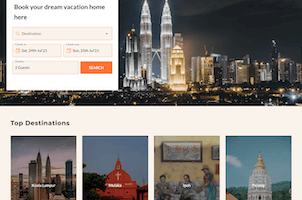
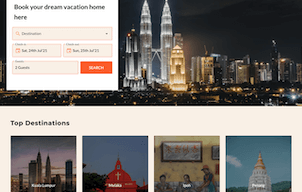
♻ refactor: improve for lighthouse

diff --git a/src/pages/home/_components/Projects/Template.tsx b/src/pages/home/_components/Projects/Template.tsx
@@ -13,18 +13,17 @@ const ProjectTemplate: React.FunctionComponent<Props> = (props) => {
     <li className="col-span-1 flex flex-col text-center bg-white rounded-lg shadow divide-y divide-gray-200">
       <div className="flex-1 flex flex-col">
         <div className="flex-shrink-0 w-full mx-auto">
-          <img
-            className="w-full h-48 object-cover bg-black"
-            src={props.imageUrl}
-            alt={props.projectName}
+          <div
+            style={{ backgroundImage: `url('${props.imageUrl}')` }}
+            className="w-full h-48 bg-cover"
           />
         </div>
         <h3 className="text-gray-900 text-sm font-bold px-4 pt-4">
           {props.projectName}
         </h3>
-        <dl className="mt-1 flex-grow flex flex-col justify-between px-4 pb-4">
+        <div className="mt-1 flex-grow flex flex-col justify-between px-4 pb-4">
           {props.children}
-          <dd className="mt-3 space-x-2 flex flex-wrap justify-center">
+          <div className="mt-3 space-x-2 flex flex-wrap justify-center">
             {props.stack.map((v) => (
               <span
                 key={v}
@@ -33,58 +32,92 @@ const ProjectTemplate: React.FunctionComponent<Props> = (props) => {
                 {v}
               </span>
             ))}
-          </dd>
-        </dl>
+          </div>
+        </div>
       </div>
       <div>
         <div className="-mt-px flex divide-x divide-gray-200">
           <div className="w-0 flex-1 flex">
-            <a
-              href={props.github}
-              target="_blank"
-              className={`${
-                props.github
-                  ? "cursor-pointer text-gray-700 hover:text-gray-500"
-                  : "cursor-not-allowed text-gray-300"
-              } relative -mr-px w-0 flex-1 inline-flex items-center justify-center py-2 text-sm font-medium border border-transparent rounded-bl-lg`}
-              rel="noreferrer"
-            >
-              <svg
-                className="h-6 w-6"
-                xmlns="http://www.w3.org/2000/svg"
-                width="24"
-                height="24"
-                viewBox="0 0 24 24"
-                fill="currentColor"
+            {props.github ? (
+              <a
+                href={props.github}
+                target="_blank"
+                className="cursor-pointer text-gray-700 hover:text-gray-500 relative -mr-px w-0 flex-1 inline-flex items-center justify-center py-2 text-sm font-medium border border-transparent rounded-bl-lg"
+                rel="noreferrer"
               >
-                <path d="M19 0h-14c-2.761 0-5 2.239-5 5v14c0 2.761 2.239 5 5 5h14c2.762 0 5-2.239 5-5v-14c0-2.761-2.238-5-5-5zm-4.466 19.59c-.405.078-.534-.171-.534-.384v-2.195c0-.747-.262-1.233-.55-1.481 1.782-.198 3.654-.875 3.654-3.947 0-.874-.312-1.588-.823-2.147.082-.202.356-1.016-.079-2.117 0 0-.671-.215-2.198.82-.64-.18-1.324-.267-2.004-.271-.68.003-1.364.091-2.003.269-1.528-1.035-2.2-.82-2.2-.82-.434 1.102-.16 1.915-.077 2.118-.512.56-.824 1.273-.824 2.147 0 3.064 1.867 3.751 3.645 3.954-.229.2-.436.552-.508 1.07-.457.204-1.614.557-2.328-.666 0 0-.423-.768-1.227-.825 0 0-.78-.01-.055.487 0 0 .525.246.889 1.17 0 0 .463 1.428 2.688.944v1.489c0 .211-.129.459-.528.385-3.18-1.057-5.472-4.056-5.472-7.59 0-4.419 3.582-8 8-8s8 3.581 8 8c0 3.533-2.289 6.531-5.466 7.59z" />
-              </svg>
-            </a>
+                <svg
+                  className="h-6 w-6 mr-2"
+                  xmlns="http://www.w3.org/2000/svg"
+                  width="24"
+                  height="24"
+                  viewBox="0 0 24 24"
+                  fill="currentColor"
+                >
+                  <path d="M19 0h-14c-2.761 0-5 2.239-5 5v14c0 2.761 2.239 5 5 5h14c2.762 0 5-2.239 5-5v-14c0-2.761-2.238-5-5-5zm-4.466 19.59c-.405.078-.534-.171-.534-.384v-2.195c0-.747-.262-1.233-.55-1.481 1.782-.198 3.654-.875 3.654-3.947 0-.874-.312-1.588-.823-2.147.082-.202.356-1.016-.079-2.117 0 0-.671-.215-2.198.82-.64-.18-1.324-.267-2.004-.271-.68.003-1.364.091-2.003.269-1.528-1.035-2.2-.82-2.2-.82-.434 1.102-.16 1.915-.077 2.118-.512.56-.824 1.273-.824 2.147 0 3.064 1.867 3.751 3.645 3.954-.229.2-.436.552-.508 1.07-.457.204-1.614.557-2.328-.666 0 0-.423-.768-1.227-.825 0 0-.78-.01-.055.487 0 0 .525.246.889 1.17 0 0 .463 1.428 2.688.944v1.489c0 .211-.129.459-.528.385-3.18-1.057-5.472-4.056-5.472-7.59 0-4.419 3.582-8 8-8s8 3.581 8 8c0 3.533-2.289 6.531-5.466 7.59z" />
+                </svg>
+                GitHub
+              </a>
+            ) : (
+              <div
+                aria-disabled="true"
+                className="cursor-not-allowed text-gray-300 relative -mr-px w-0 flex-1 inline-flex items-center justify-center py-2 text-sm font-medium border border-transparent rounded-bl-lg"
+              >
+                <svg
+                  className="h-6 w-6 mr-2"
+                  xmlns="http://www.w3.org/2000/svg"
+                  width="24"
+                  height="24"
+                  viewBox="0 0 24 24"
+                  fill="currentColor"
+                >
+                  <path d="M19 0h-14c-2.761 0-5 2.239-5 5v14c0 2.761 2.239 5 5 5h14c2.762 0 5-2.239 5-5v-14c0-2.761-2.238-5-5-5zm-4.466 19.59c-.405.078-.534-.171-.534-.384v-2.195c0-.747-.262-1.233-.55-1.481 1.782-.198 3.654-.875 3.654-3.947 0-.874-.312-1.588-.823-2.147.082-.202.356-1.016-.079-2.117 0 0-.671-.215-2.198.82-.64-.18-1.324-.267-2.004-.271-.68.003-1.364.091-2.003.269-1.528-1.035-2.2-.82-2.2-.82-.434 1.102-.16 1.915-.077 2.118-.512.56-.824 1.273-.824 2.147 0 3.064 1.867 3.751 3.645 3.954-.229.2-.436.552-.508 1.07-.457.204-1.614.557-2.328-.666 0 0-.423-.768-1.227-.825 0 0-.78-.01-.055.487 0 0 .525.246.889 1.17 0 0 .463 1.428 2.688.944v1.489c0 .211-.129.459-.528.385-3.18-1.057-5.472-4.056-5.472-7.59 0-4.419 3.582-8 8-8s8 3.581 8 8c0 3.533-2.289 6.531-5.466 7.59z" />
+                </svg>
+                GitHub
+              </div>
+            )}
           </div>
           <div className="-ml-px w-0 flex-1 flex">
-            <a
-              href={props.website}
-              target="_blank"
-              className={`${
-                props.website
-                  ? "cursor-pointer text-gray-700 hover:text-gray-500"
-                  : "cursor-not-allowed text-gray-300"
-              } relative -mr-px w-0 flex-1 inline-flex items-center justify-center py-2 text-sm font-medium border border-transparent rounded-bl-lg`}
-              rel="noreferrer"
-            >
-              <svg
-                className="w-6 h-6"
-                fill="currentColor"
-                viewBox="0 0 20 20"
-                xmlns="http://www.w3.org/2000/svg"
+            {props.website ? (
+              <a
+                href={props.website}
+                target="_blank"
+                className="cursor-pointer text-gray-700 hover:text-gray-500 relative -mr-px w-0 flex-1 inline-flex items-center justify-center py-2 text-sm font-medium border border-transparent rounded-bl-lg"
+                rel="noreferrer"
               >
-                <path
-                  fillRule="evenodd"
-                  d="M4.083 9h1.946c.089-1.546.383-2.97.837-4.118A6.004 6.004 0 004.083 9zM10 2a8 8 0 100 16 8 8 0 000-16zm0 2c-.076 0-.232.032-.465.262-.238.234-.497.623-.737 1.182-.389.907-.673 2.142-.766 3.556h3.936c-.093-1.414-.377-2.649-.766-3.556-.24-.56-.5-.948-.737-1.182C10.232 4.032 10.076 4 10 4zm3.971 5c-.089-1.546-.383-2.97-.837-4.118A6.004 6.004 0 0115.917 9h-1.946zm-2.003 2H8.032c.093 1.414.377 2.649.766 3.556.24.56.5.948.737 1.182.233.23.389.262.465.262.076 0 .232-.032.465-.262.238-.234.498-.623.737-1.182.389-.907.673-2.142.766-3.556zm1.166 4.118c.454-1.147.748-2.572.837-4.118h1.946a6.004 6.004 0 01-2.783 4.118zm-6.268 0C6.412 13.97 6.118 12.546 6.03 11H4.083a6.004 6.004 0 002.783 4.118z"
-                  clipRule="evenodd"
-                />
-              </svg>
-            </a>
+                <svg
+                  className="w-6 h-6 mr-2"
+                  fill="currentColor"
+                  viewBox="0 0 20 20"
+                  xmlns="http://www.w3.org/2000/svg"
+                >
+                  <path
+                    fillRule="evenodd"
+                    d="M4.083 9h1.946c.089-1.546.383-2.97.837-4.118A6.004 6.004 0 004.083 9zM10 2a8 8 0 100 16 8 8 0 000-16zm0 2c-.076 0-.232.032-.465.262-.238.234-.497.623-.737 1.182-.389.907-.673 2.142-.766 3.556h3.936c-.093-1.414-.377-2.649-.766-3.556-.24-.56-.5-.948-.737-1.182C10.232 4.032 10.076 4 10 4zm3.971 5c-.089-1.546-.383-2.97-.837-4.118A6.004 6.004 0 0115.917 9h-1.946zm-2.003 2H8.032c.093 1.414.377 2.649.766 3.556.24.56.5.948.737 1.182.233.23.389.262.465.262.076 0 .232-.032.465-.262.238-.234.498-.623.737-1.182.389-.907.673-2.142.766-3.556zm1.166 4.118c.454-1.147.748-2.572.837-4.118h1.946a6.004 6.004 0 01-2.783 4.118zm-6.268 0C6.412 13.97 6.118 12.546 6.03 11H4.083a6.004 6.004 0 002.783 4.118z"
+                    clipRule="evenodd"
+                  />
+                </svg>
+                Website
+              </a>
+            ) : (
+              <div
+                aria-disabled="true"
+                className="cursor-not-allowed text-gray-300 relative -mr-px w-0 flex-1 inline-flex items-center justify-center py-2 text-sm font-medium border border-transparent rounded-bl-lg"
+              >
+                <svg
+                  className="w-6 h-6 mr-2"
+                  fill="currentColor"
+                  viewBox="0 0 20 20"
+                  xmlns="http://www.w3.org/2000/svg"
+                >
+                  <path
+                    fillRule="evenodd"
+                    d="M4.083 9h1.946c.089-1.546.383-2.97.837-4.118A6.004 6.004 0 004.083 9zM10 2a8 8 0 100 16 8 8 0 000-16zm0 2c-.076 0-.232.032-.465.262-.238.234-.497.623-.737 1.182-.389.907-.673 2.142-.766 3.556h3.936c-.093-1.414-.377-2.649-.766-3.556-.24-.56-.5-.948-.737-1.182C10.232 4.032 10.076 4 10 4zm3.971 5c-.089-1.546-.383-2.97-.837-4.118A6.004 6.004 0 0115.917 9h-1.946zm-2.003 2H8.032c.093 1.414.377 2.649.766 3.556.24.56.5.948.737 1.182.233.23.389.262.465.262.076 0 .232-.032.465-.262.238-.234.498-.623.737-1.182.389-.907.673-2.142.766-3.556zm1.166 4.118c.454-1.147.748-2.572.837-4.118h1.946a6.004 6.004 0 01-2.783 4.118zm-6.268 0C6.412 13.97 6.118 12.546 6.03 11H4.083a6.004 6.004 0 002.783 4.118z"
+                    clipRule="evenodd"
+                  />
+                </svg>
+                Website
+              </div>
+            )}
           </div>
         </div>
       </div>

diff --git a/src/pages/home/_components/NavBar.tsx b/src/pages/home/_components/NavBar.tsx
@@ -84,7 +84,10 @@ const NavBar = ({ showMenu, setShowMenu, menus }: Props) => {
               </Transition>
 
               <div className="flex-shrink-0 flex items-center px-4">
-                <img className="h-8 w-auto" src="/logo.png" alt="Logo" />
+                <div
+                  className="h-8 w-8 bg-cover"
+                  style={{ backgroundImage: "url('/logo.png')" }}
+                />
                 <div className="ml-2 text-white text-sm font-bold">
                   Oyster Lee
                 </div>
@@ -92,6 +95,7 @@ const NavBar = ({ showMenu, setShowMenu, menus }: Props) => {
               <div className="mt-5 flex-1 h-0 overflow-y-auto">
                 <nav className="px-2 space-y-1">
                   <Scrollspy
+                    componentTag="div"
                     items={menus.map((v) => v.hash)}
                     currentClassName="nav-link__active"
                   >
@@ -125,7 +129,10 @@ const NavBar = ({ showMenu, setShowMenu, menus }: Props) => {
           {/* Sidebar component, swap this element with another sidebar if you like */}
           <div className="flex flex-col h-0 flex-1">
             <div className="flex items-center h-16 flex-shrink-0 px-4 bg-gray-900">
-              <img className="h-8 w-auto" src="/logo.png" alt="Logo" />
+              <div
+                className="h-8 w-8 bg-cover"
+                style={{ backgroundImage: "url('/logo.png')" }}
+              />
               <div className="ml-2 text-white text-sm font-bold">
                 Oyster Lee
               </div>
@@ -135,6 +142,7 @@ const NavBar = ({ showMenu, setShowMenu, menus }: Props) => {
                 <Scrollspy
                   items={menus.map((v) => v.hash)}
                   currentClassName="nav-link__active"
+                  componentTag="div"
                 >
                   {menus.map((v) => {
                     const Icon = v.iconPath;

diff --git a/index.html b/index.html
@@ -4,10 +4,24 @@
     <meta charset="UTF-8" />
     <link rel="icon" href="/favicon.ico" />
     <meta name="viewport" content="width=device-width, initial-scale=1.0" />
+    <link href="https://fonts.googleapis.com/css2?family=Montserrat:wght@300;400;500;700&display=swap" />
     <title>Oyster Lee</title>
+    <meta name="theme-color" content="#1c2734" />
+    <meta name="image" content="/og.png" />
+    <meta name="description" content="Oyster Lee is a Malaysian Full-Stack Web Developer proficient in Vue.js, Node.js, Golang, Svelte.js, Automate task, etc." />
+    <meta name="og:title" content="Oyster Lee - Full Stack Web Developer" />
+    <meta name="og:site_name" content="Oyster Lee" />
+    <meta name="og:image" content="/og.png" />
+    <meta name="og:url" content="https://oysterlee.dev" />
+    <meta name="og:description" content="Oyster Lee is a Malaysian Full-Stack Web Developer proficient in Vue.js, Node.js, Golang, Svelte.js, Automate task, etc." />
+    <meta name="twitter:title" content="Oyster Lee" />
+    <meta name="twitter:image" content="/og.png" />
+    <meta name="twitter:card" content="summary" />
+    <meta name="twitter:url" content="https://oysterlee.dev" />
+    <meta name="twitter:description" content="Oyster Lee is a Malaysian Full-Stack Web Developer proficient in Vue.js, Node.js, Golang, Svelte.js, Automate task, etc." />
   </head>
   <body>
     <div id="root"><!--content--></div>
-    <script type="module" src="/src/entry-client.tsx"></script>
+    <script defer type="module" src="/src/entry-client.tsx"></script>
   </body>
 </html>

diff --git a/src/pages/home/_components/Hero.scss b/src/pages/home/_components/Hero.scss
@@ -21,6 +21,8 @@ section#hero {
   @apply h-screen w-screen relative z-0;
   @apply flex flex-col justify-center items-center;
 
+  background-color: #1c2734;
+
   .name {
     @apply text-secondary font-bold text-4xl;
   }
@@ -108,38 +110,38 @@ section#hero {
 
 @keyframes colorSlide {
   0% {
-    background-position: 0% 100%;
+    background-position: 0 100%;
   }
   20% {
-    background-position: 0% 0%;
+    background-position: 0 0;
   }
   21% {
     background-color: $colorOutlineFade;
   }
   29.99% {
     background-color: $colorOutline;
-    background-position: 0% 0%;
+    background-position: 0 0;
   }
   30% {
     background-color: $colorOutlineFade;
-    background-position: 0% 100%;
+    background-position: 0 100%;
   }
   50% {
-    background-position: 0% 0%;
+    background-position: 0 0;
   }
   51% {
     background-color: $colorOutlineFade;
   }
   59% {
     background-color: $colorOutline;
-    background-position: 0% 0%;
+    background-position: 0 0;
   }
   60% {
     background-color: $colorOutlineFade;
-    background-position: 0% 100%;
+    background-position: 0 100%;
   }
   80% {
-    background-position: 0% 0%;
+    background-position: 0 0;
   }
   81% {
     background-color: $colorOutlineFade;

diff --git a/src/pages/home/_components/Connect.tsx b/src/pages/home/_components/Connect.tsx
@@ -8,6 +8,7 @@ const Connect = () => {
       </h2>
       <div className="flex space-x-4 md:space-x-10 items-center justify-center">
         <a
+          aria-label="Facebook"
           href="https://www.facebook.com/Oysthree/"
           target="_blank"
           rel="noreferrer"
@@ -32,7 +33,12 @@ const Connect = () => {
             </g>
           </svg>
         </a>
-        <a href="https://github.com/OysterD3" target="_blank" rel="noreferrer">
+        <a
+          aria-label="GitHub"
+          href="https://github.com/OysterD3"
+          target="_blank"
+          rel="noreferrer"
+        >
           <svg
             className="h-10 w-11"
             viewBox="0 0 256 250"
@@ -50,6 +56,7 @@ const Connect = () => {
           </svg>
         </a>
         <a
+          aria-label="Linkedin"
           href="https://www.linkedin.com/in/oysterlee/"
           target="_blank"
           rel="noreferrer"
@@ -70,7 +77,7 @@ const Connect = () => {
             </g>
           </svg>
         </a>
-        <a href="mailto:me@oysterlee.dev">
+        <a href="mailto:me@oysterlee.dev" aria-label="E-mail">
           <svg
             className="w-12 h-10"
             viewBox="0 0 256 193"

diff --git a/src/components/Tabs.tsx b/src/components/Tabs.tsx
@@ -32,7 +32,6 @@ const Tabs = (props: Props) => {
                   <button
                     type="button"
                     onClick={() => props.setSelectedIndex(idx)}
-                    aria-selected={props.selectedIndex === idx}
                     className="py-2 whitespace-nowrap px-3 w-full flex justify-center items-center focus:outline-none focus-visible:underline"
                   >
                     <span
@@ -62,7 +61,6 @@ const Tabs = (props: Props) => {
                   <button
                     type="button"
                     onClick={() => props.setSelectedIndex(idx)}
-                    aria-selected={props.selectedIndex === idx}
                     className="py-2 px-3 w-full flex items-center focus:outline-none focus-visible:underline"
                   >
                     <span

diff --git a/src/pages/home/_components/About.tsx b/src/pages/home/_components/About.tsx
@@ -7,11 +7,10 @@ const AboutSection = () => {
         <span>About</span>
       </h2>
       <div>
-        <div className=" md:float-left flex justify-center items-center">
-          <img
-            className="h-32 w-32 md:h-48 md:w-48 rounded-full p-4"
-            src="/oyster.png"
-            alt="photo"
+        <div className="md:float-left flex p-4 justify-center items-center">
+          <div
+            style={{ backgroundImage: "url('/oyster.png')" }}
+            className="h-32 w-32 md:h-48 md:w-48 rounded-full bg-contain"
           />
         </div>
         <p>

diff --git a/src/pages/home/index.scss b/src/pages/home/index.scss
@@ -1,6 +1,10 @@
 .section-header {
-  @apply text-4xl text-center font-medium;
+  @apply text-3xl text-center font-medium;
   @apply mt-5 py-5 px-5;
+
+  @screen md {
+    @apply text-4xl
+  }
 
   span {
     background-image: linear-gradient(120deg, #28ACE1 0%, #22EFF2 100%);

diff --git a/src/App.tsx b/src/App.tsx
@@ -1,5 +1,9 @@
 import React from "react";
 import Routes from "./routes";
+import ReactGA from "react-ga4";
+
+ReactGA.initialize("G-SDBJNYSXEP");
+ReactGA.send("pageview");
 
 const App = () => {
   return <Routes />;

diff --git a/src/assets/index.scss b/src/assets/index.scss
@@ -1,5 +1,3 @@
-@import url('https://fonts.googleapis.com/css2?family=Montserrat:wght@300;400;500;700&display=swap');
-
 :root {
   font-size: 16px;
   font-family: 'Montserrat', sans-serif;
